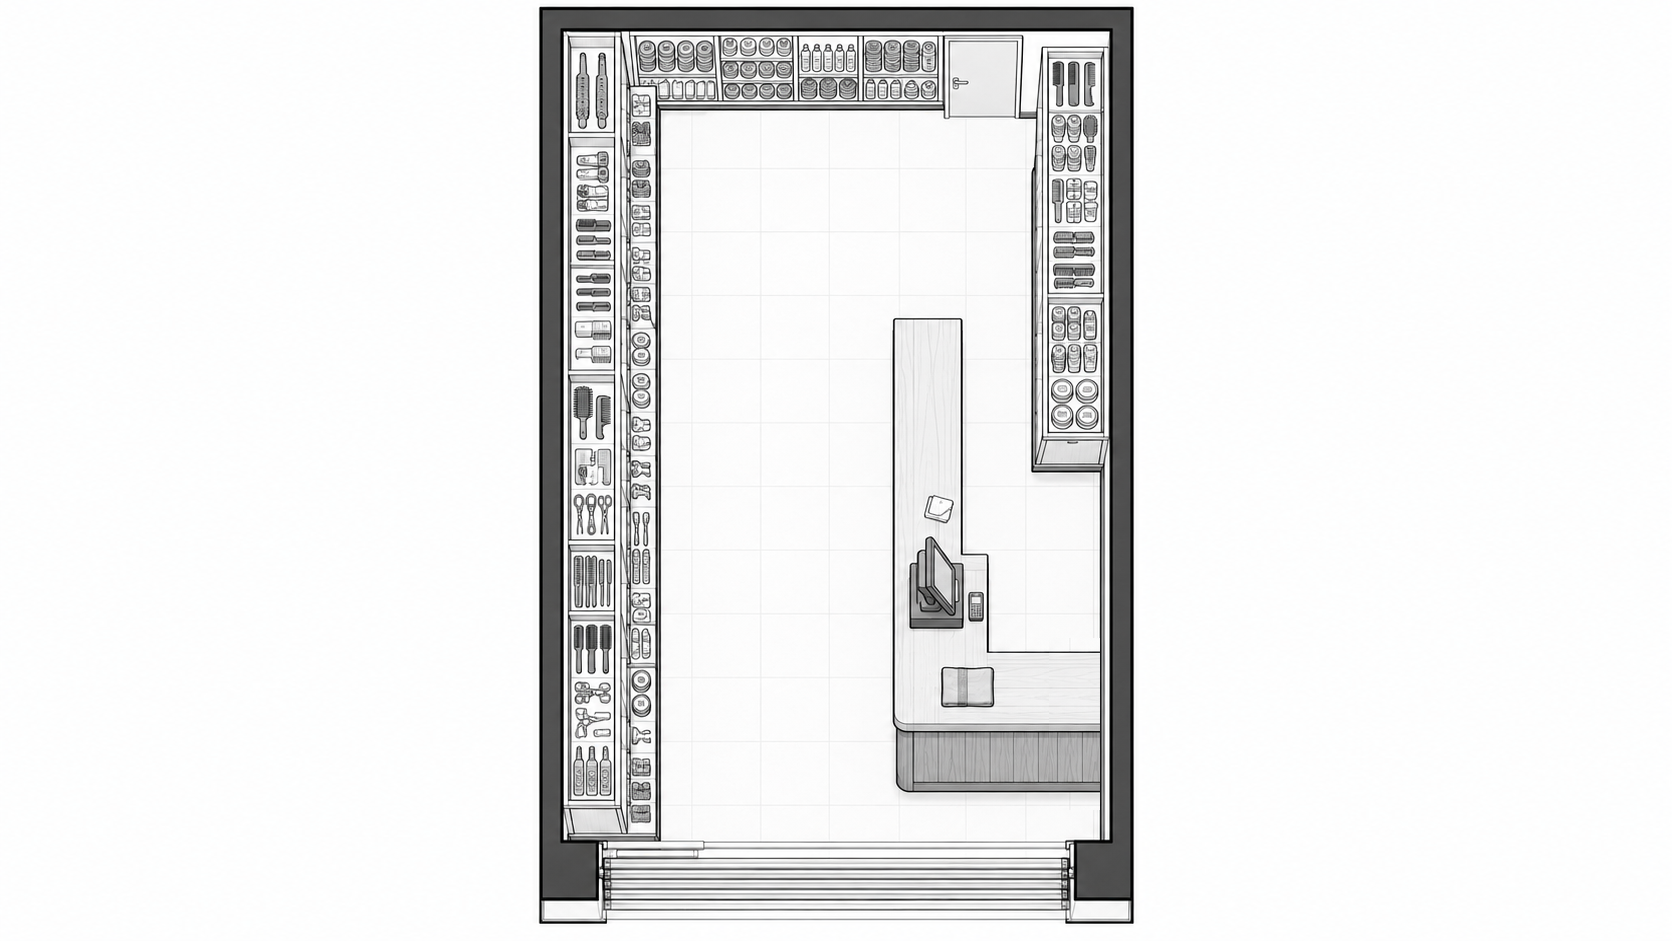
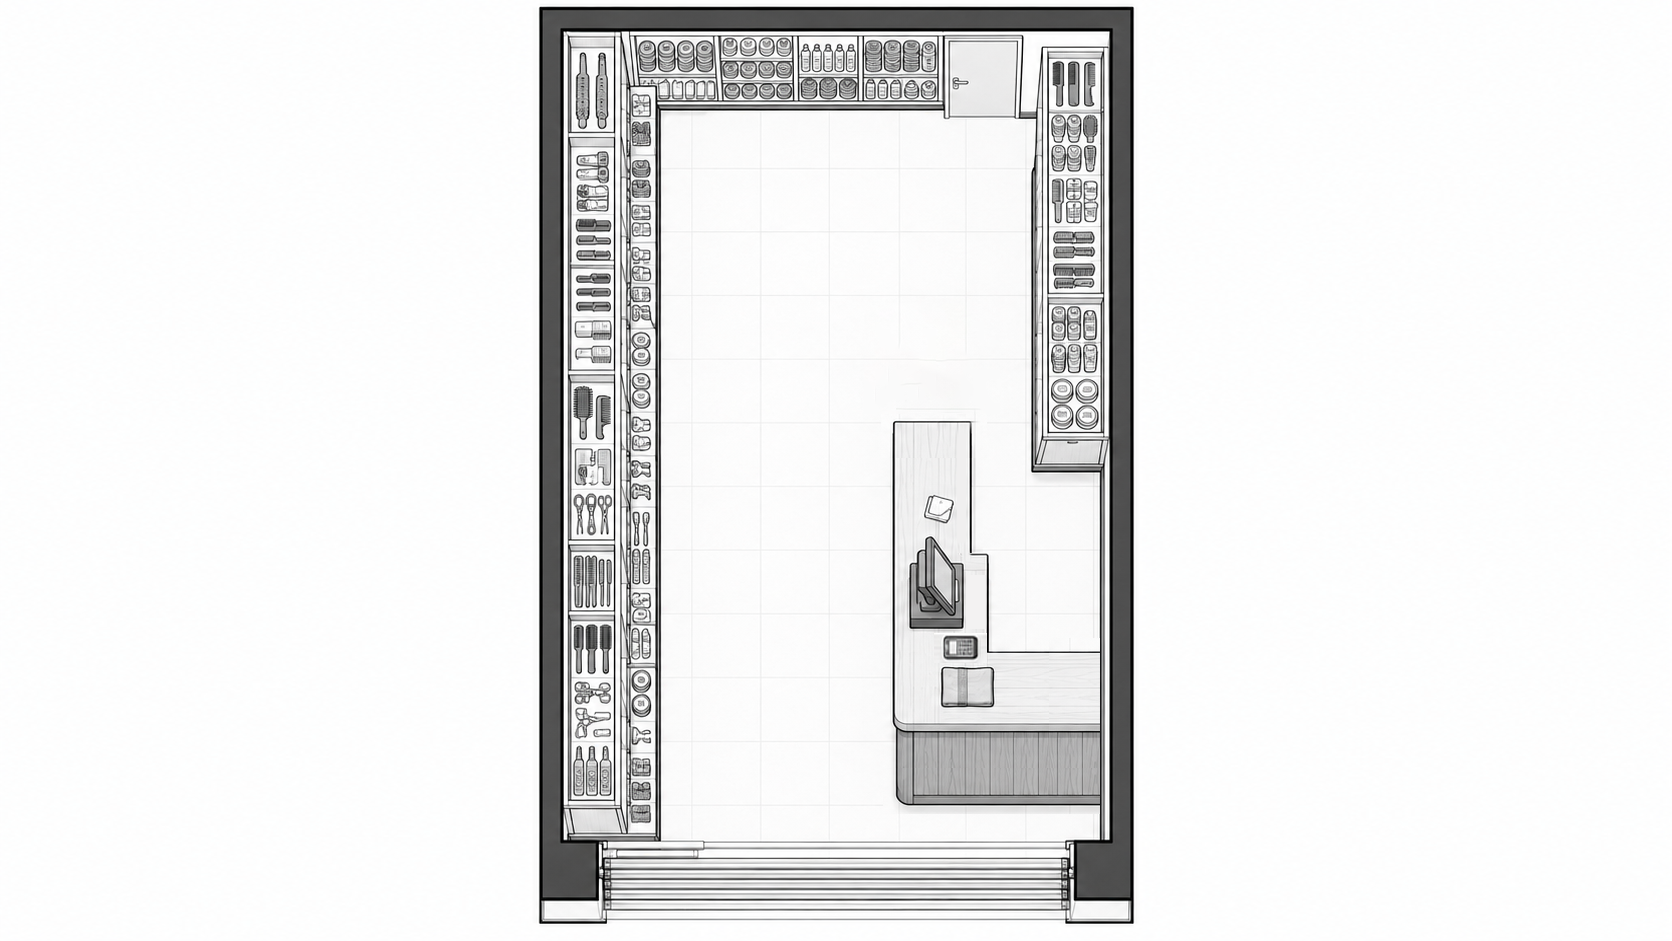
Approve L01 hair shop location sheet

diff --git a/03_creative/v02_v08_commerce_athlete/briefing/v08-location-blocking-sheets-v001.md b/03_creative/v02_v08_commerce_athlete/briefing/v08-location-blocking-sheets-v001.md
@@ -560,8 +560,8 @@ no people, no character, no storyboard action, no moodboard, no irregular collag
 Usar en una ventana nueva y limpia cuando ya esten aprobados:
 
 1. Character sheet de Don Rafael.
-2. Blocking map L01.
-3. Location sheet visual L01.
+2. Blocking map L01: `07_assets/locations/blocking-maps/L01-tienda-pequena-centro-historico-blocking-map-v009-approved.png`
+3. Location sheet visual L01: `07_assets/locations/model-sheets/approved/L01-tienda-pequena-centro-historico-location-sheet-v009-approved.png`
 
 ```text
 Usa las 3 imagenes adjuntas como referencias estrictas:
@@ -573,7 +573,7 @@ Identidad, rostro, edad, pelo entrecano, complexion, manos, vestuario, actitud y
 Planta fija, eje de accion, entrada y cortina al sur, interior al norte, ruta fisica, posiciones de camara, direccion de luz y continuidad espacial.
 
 3. Location sheet visual aprobado de L01:
-Arquitectura, fachada, cortina metalica, mostrador, anaqueles, materiales, paleta, luz de amanecer, limpieza y tono cinematografico.
+Arquitectura, fachada de tezontle/cantera rojiza, cortina roja T1, mostrador en L, anaqueles con articulos de cabello/barba, materiales, paleta, luz de amanecer, limpieza y tono cinematografico.
 
 JERARQUIA DE REFERENCIAS:
 La identidad del personaje viene solo de la referencia 1.
@@ -593,8 +593,8 @@ No cambies ropa, edad, rostro, luz, paleta ni epoca.
 Usar en chat nuevo. Adjuntar exactamente estas referencias:
 
 1. Character sheet aprobado de Don Rafael.
-2. Blocking map aprobado de L01.
-3. Location sheet visual aprobado de L01.
+2. Blocking map aprobado de L01: `07_assets/locations/blocking-maps/L01-tienda-pequena-centro-historico-blocking-map-v009-approved.png`
+3. Location sheet visual aprobado de L01: `07_assets/locations/model-sheets/approved/L01-tienda-pequena-centro-historico-location-sheet-v009-approved.png`
 
 ```text
 Haz una imagen horizontal 16:9 tipo sequence sheet cinematografico para la Toma 01 de una tienda pequena tradicional del Centro Historico de Ciudad de Mexico.
@@ -608,7 +608,7 @@ Usalo solo para identidad del personaje: rostro, edad, pelo entrecano, complexio
 Usalo solo para geometria y continuidad espacial: entrada/cortina al frente, local angosto y profundo, anaqueles, pasillo central, caja lateral derecha en L, pasillo vendedor, fondo y direccion de entrada desde la calle hacia el interior.
 
 3. Location sheet visual de la tienda:
-Usalo solo para look de locacion: fachada, cortina metalica, tezontle/cantera rojiza si aparece, interior limpio, anaqueles con articulos de cabello/barba, madera, POS, libreta, pano rojo, luz de amanecer, paleta y tono cinematografico.
+Usalo solo para look de locacion: fachada de tezontle/cantera rojiza, cortina metalica roja T1, interior limpio, anaqueles con articulos de cabello/barba, mostrador en L de madera, POS, libreta, pano rojo, luz de amanecer, paleta y tono cinematografico.
 
 No uses ninguna otra imagen como referencia.
 No inventes otra tienda.
@@ -619,6 +619,7 @@ No cambies ropa, edad, rostro, luz, paleta ni epoca.
 OBJETIVO:
 Crear un sequence sheet de la primera toma: Don Rafael llega desde la calle, se aproxima a la cortina metalica de su tienda y empieza a abrirla al amanecer.
 La imagen debe servir para fijar continuidad de personaje, locacion, accion, direccion de luz y progresion de la toma.
+La tienda vende articulos de cabello, barba y cuidado personal; si se revela el interior, deben verse peines, cepillos, brochas, navajas, tijeras, pomadas, geles, ceras, tintes, ligas, pasadores y accesorios pequenos sin marcas legibles.
 
 FORMATO:
 - Una sola imagen horizontal 16:9.
@@ -632,7 +633,7 @@ ACCION DE LA TOMA 01:
 Paneles 1 a 4: fachada cerrada al amanecer, cortina metalica abajo, calle tranquila, Don Rafael entra a cuadro desde banqueta.
 Paneles 5 a 8: Don Rafael se acerca a la cortina, se detiene frente al acceso, mira el local con calma y prepara las manos.
 Paneles 9 a 12: Don Rafael toma la cortina metalica desde abajo y empieza a levantarla. La luz dorada entra suavemente.
-Paneles 13 a 16: la cortina queda a media altura, se revela el interior limpio, pasillo central y caja lateral derecha segun el mapa. Don Rafael permanece cerca del umbral; no debe llegar todavia hasta la caja.
+Paneles 13 a 16: la cortina queda a media altura, se revela el interior limpio, pasillo central, anaqueles de cabello/barba y caja lateral derecha en L segun el mapa. Don Rafael permanece cerca del umbral; no debe llegar todavia hasta la caja.
 
 CONTINUIDAD OBLIGATORIA:
 Mismo Don Rafael en todos los paneles.
@@ -641,6 +642,7 @@ Misma tienda en todos los paneles.
 Misma fachada y misma cortina.
 Misma direccion de luz de amanecer desde la calle.
 Misma geometria del mapa: entrada al frente, local angosto y profundo, anaqueles laterales con articulos de cabello/barba, pasillo central libre, caja lateral derecha en L, pasillo vendedor detras de caja.
+Mismo color rojo T1 de la cortina si aparece abierta o cerrada.
 La accion siempre va desde calle hacia entrada. No sugerir que Don Rafael viene desde la caja hacia afuera.
 
 LOOK: